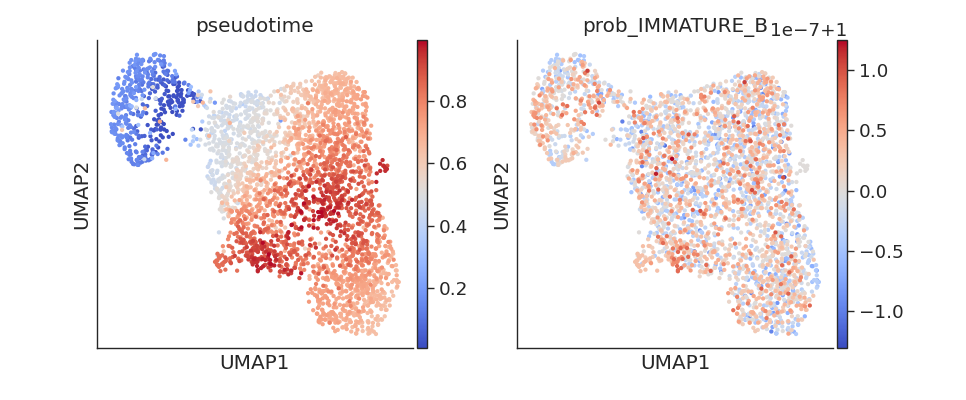
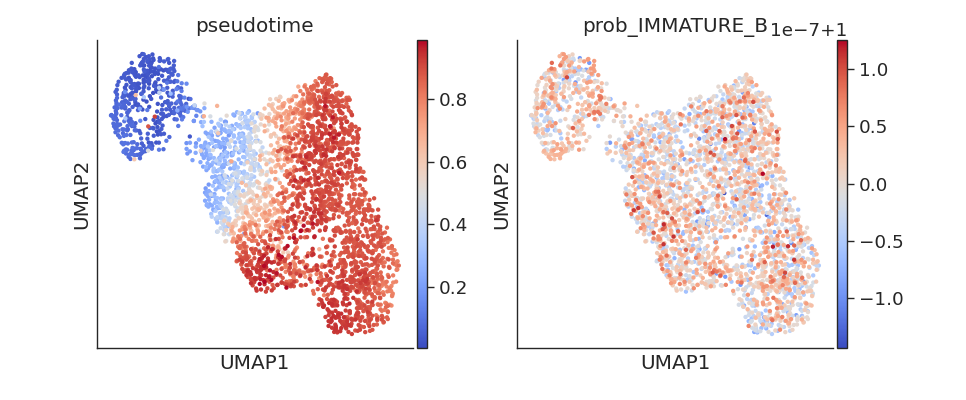
update plots

diff --git a/test3.py b/test3.py
@@ -14,7 +14,7 @@ GEX_adata = ddl.tl.setup_vdj_pseudobulk(preprocessed_GEXdata, mode="B",
                                         productive_vj = False
                                        )
 
-GEX_adata = GEX_adata[~GEX_adata.obs["celltype_annotation"].isin(["CYCLING_B", "B1", "MATURE_B"])] 
+GEX_adata = GEX_adata[~GEX_adata.obs["celltype_annotation"].isin(["CYCLING_B", "B1", "MATURE_B", "PLASMA_B", "LATE_PRO_B", "PRO_B", "PRE_PRO_B"])] 
 
 sc.pp.neighbors(GEX_adata, use_rep="X_scvi", n_neighbors=50)
 milo.make_nhoods(GEX_adata, prop=0.1)
@@ -26,13 +26,20 @@ pb_GEX_adata = ddl.tl.vdj_pseudobulk(
 )
 
 # compute PCA
+sc.pp.neighbors(pb_GEX_adata)
+sc.tl.umap(pb_GEX_adata)
 
 sc.tl.pca(pb_GEX_adata) # compute PCA coordinates, loadings and variance
-# sc.pl.pca(pb_GEX_adata, color="celltype_annotation")
+sc.pl.pca(pb_GEX_adata, color="celltype_annotation")
 # sc.pl.pca_overview(pb_GEX_adata)
 
+
+
 # pick rootcell & terminal state
-rootcell = np.where(pb_GEX_adata.obs["celltype_annotation"]=="LARGE_PRE_B")[0][0]
+rootcell = pb_GEX_adata[pb_GEX_adata.obs["celltype_annotation"]=="LARGE_PRE_B"].obs_names[
+            np.argmin(pb_GEX_adata[pb_GEX_adata.obs["celltype_annotation"]=="LARGE_PRE_B"].obsm["X_umap"][:, 1])
+        ]
+
 print(rootcell)
 
 terminal_states = pd.Series(
@@ -46,7 +53,7 @@ terminal_states = pd.Series(
 
 print(terminal_states)
 
-sc.pp.neighbors(pb_GEX_adata, n_neighbors=100)
+# sc.pp.neighbors(pb_GEX_adata, n_neighbors=100)
 
 # Run diffusion maps
 pca_projections = pd.DataFrame(pb_GEX_adata.obsm["X_pca"], index=pb_GEX_adata.obs_names)
@@ -56,7 +63,7 @@ ms_data.index = ms_data.index.astype(str)
 
 pr_res = palantir.core.run_palantir(
     ms_data,
-    pb_GEX_adata.obs_names[rootcell],
+    rootcell,
     num_waypoints=500,
     terminal_states=terminal_states.index,
 )
